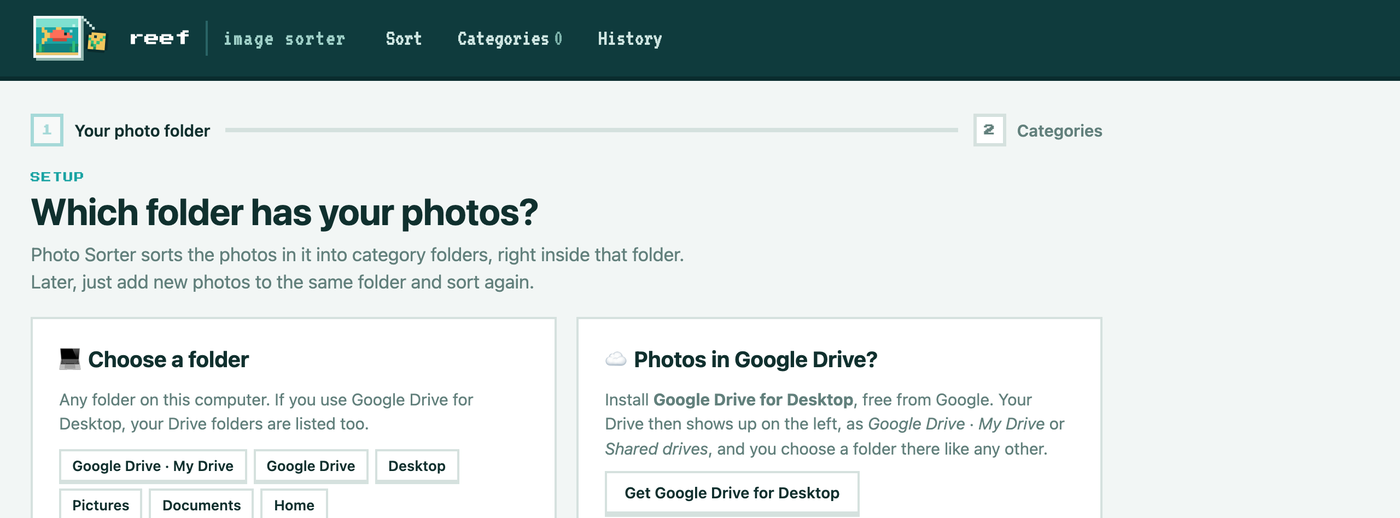
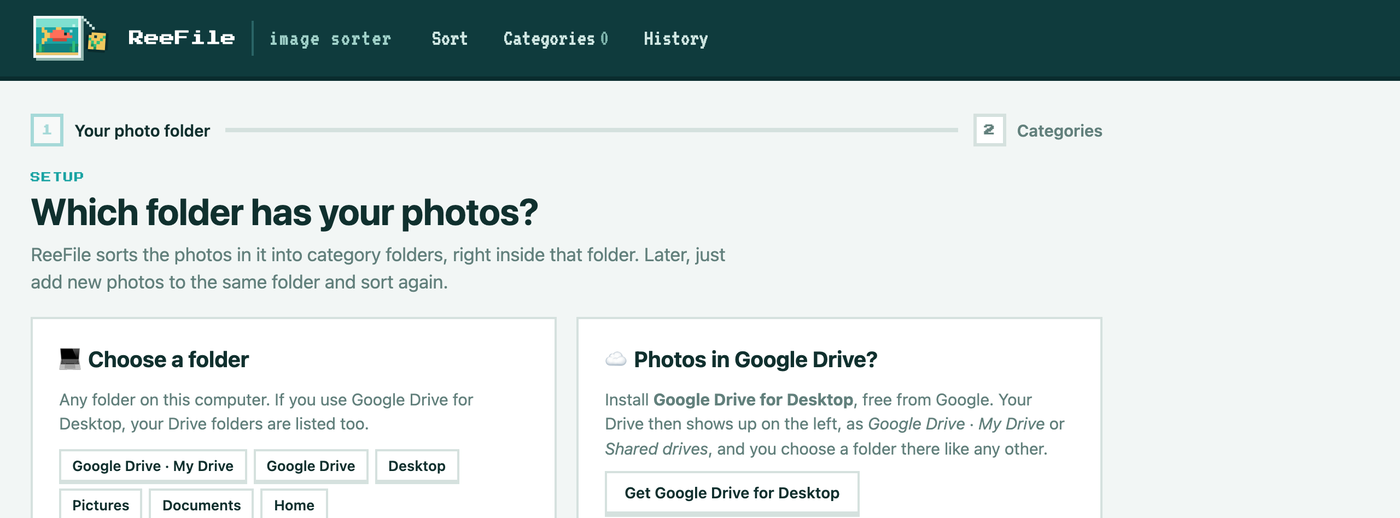
Name the app ReeFile
ReeFile is now the name people see: the app's header and browser tab, the setup and
sign-in pages, the README, the installer and uninstaller screens, and the Desktop icon
(ReeFile.command / ReeFile.lnk; icons from older installs are removed, so nobody ends
up with two). The command, package and folders keep the name photo-sorter, so
existing installs and settings keep working. Screenshots re-taken with the new name.

Changed region(s): [[0.0, 0.4633, 0.5221, 0.556], [0.0921, 0.0618, 0.5221, 0.0927]]

diff --git a/photo_sorter/web/templates/base.html b/photo_sorter/web/templates/base.html
@@ -3,7 +3,7 @@
 <head>
 <meta charset="utf-8">
 <meta name="viewport" content="width=device-width, initial-scale=1">
-<title>reef · image sorter</title>
+<title>ReeFile · image sorter</title>
 <link rel="preconnect" href="https://fonts.googleapis.com">
 <link href="https://fonts.googleapis.com/css2?family=Press+Start+2P&family=VT323&display=swap" rel="stylesheet">
 <link rel="icon" href="/favicon.svg" type="image/svg+xml">
@@ -396,7 +396,7 @@
 <body class="{{ 'is-sorting' if s and s.running }}">
 <header>
   {% if s and s.running %}<i class="fish"></i><i class="fish b"></i>{% endif %}
-  <a class="logo" href="/" title="reef · image sorter">{% include "_logo.svg" %}<span class="word">reef</span><small>image sorter</small></a>
+  <a class="logo" href="/" title="ReeFile · image sorter">{% include "_logo.svg" %}<span class="word">ReeFile</span><small>image sorter</small></a>
   <nav>
     <a href="/" class="{{ 'active' if request.url.path == '/' else '' }}">Sort</a>
     <a href="/categories" class="{{ 'active' if request.url.path.startswith('/categories') else '' }}">Categories<b>{{ cfg.categories|length + (cfg.video_categories|length if cfg.video_categories else 0) }}</b></a>

diff --git a/photo_sorter/web/templates/setup.html b/photo_sorter/web/templates/setup.html
@@ -11,7 +11,7 @@
 {% if step == 'folder' %}
   <div class="eyebrow">Setup</div>
   <h1>Which folder has your photos?</h1>
-  <p class="sub">Photo Sorter sorts the photos in it into category folders, right inside that folder. Later, just add new
+  <p class="sub">ReeFile sorts the photos in it into category folders, right inside that folder. Later, just add new
     photos to the same folder and sort again.{% if current %} Now: <b>{{ current }}</b>{% endif %}</p>
   {% if err %}<div class="banner err">{{ err }}</div>{% endif %}
   <div class="cards">
@@ -43,7 +43,7 @@
 {% elif step == 'inbox' %}
   <div class="eyebrow">Settings · {{ s.sorter.storage.root_label|short }}</div>
   <h1>Where do new photos arrive?</h1>
-  <p class="sub">Photo Sorter sorts the photos it finds there into the category folders.</p>
+  <p class="sub">ReeFile sorts the photos it finds there into the category folders.</p>
   <form method="post" action="/setup/inbox">
     <label class="choice"><input type="radio" name="mode" value="self" {{ 'checked' if mode == 'self' }}>
       <span><b>Right in this folder</b> <span class="muted">(simplest)</span>

diff --git a/photo_sorter/web/templates/login.html b/photo_sorter/web/templates/login.html
@@ -1,7 +1,7 @@
 {% extends "base.html" %}{% block content %}
 <div class="empty">
   <h1>Sign in with Google</h1>
-  <p>photo-sorter sorts photos inside one of your Google Drive folders: it moves them into category folders there.<br>
+  <p>ReeFile sorts photos inside one of your Google Drive folders: it moves them into category folders there.<br>
      Nothing is copied to this server; your sign-in is kept only in your browser, encrypted.</p>
   <p><a href="/auth/start"><button class="primary">Continue with Google</button></a></p>
   <p class="hint">Next you paste the link of the Drive folder to sort. Google may warn that the app is not verified:

diff --git a/photo_sorter/cli.py b/photo_sorter/cli.py
@@ -403,12 +403,12 @@ def cmd_serve(a, cfg) -> int:
             urllib.request.urlopen(url + "/healthz", timeout=2).read()
         except OSError:
             raise RuntimeError(f"port {a.port} is used by another program; start with --port 8090 (or another number)") from None
-        print(f"photo-sorter is already running: {url}")
+        print(f"ReeFile is already running: {url}")
         if a.open:
             webbrowser.open(url)
         return 0
     app = create_app(cfg)
-    print(f"Open {url}   (keep this window open; closing it stops photo-sorter)", flush=True)
+    print(f"Open {url}   (keep this window open; closing it stops ReeFile)", flush=True)
     if a.open:
         threading.Timer(1.5, webbrowser.open, args=(url,)).start()
     uvicorn.run(app, host=a.host, port=a.port, log_level="warning")

diff --git a/README.md b/README.md
@@ -1,12 +1,12 @@
-# Photo Sorter
+# ReeFile
 
 **Sorts research photos into folders automatically, on your own computer.**
 
-![84 reef photos waiting to be sorted in Photo Sorter](docs/images/unsorted-pile.jpg)
+![84 reef photos waiting to be sorted in ReeFile](docs/images/unsorted-pile.jpg)
 
 ## What it is
 
-Photo Sorter is a free app for research teams that take lots of photos, for example on a coral reef project.
+ReeFile is a free app for research teams that take lots of photos, for example on a coral reef project.
 You tell it which categories you use, and it files your photos into the right folders.
 
 ## What it does
@@ -25,11 +25,11 @@ through [Google Drive for Desktop](https://www.google.com/drive/download/).
 ![Choosing the photo folder](docs/images/choose-folder.png)
 
 **2. Press Sort.** In seconds, every photo gets a suggested category. Here, 84 photos from one week of reef work
-were sorted in 7 seconds on a laptop: 61 were clear, and 23 wait for your decision.
+were sorted in about 6 seconds on a laptop: 61 were clear, and 23 wait for your decision.
 
 ![The photos sorted into piles, one per category, plus a Needs review pile](docs/images/sorted-piles.jpg)
 
-**3. Check, then File.** Open a pile to check it, then press **File**. Photo Sorter creates a folder for each
+**3. Check, then File.** Open a pile to check it, then press **File**. ReeFile creates a folder for each
 category inside your photo folder and moves the photos into it:
 
 ```text
@@ -52,7 +52,7 @@ Later, just add new photos to the folder and press **Sort** again.
 
 ### Needs review: one key per photo
 
-When Photo Sorter isn't sure, the photo waits in **Needs review**. Press **▶ Decide** to go through them one by
+When ReeFile isn't sure, the photo waits in **Needs review**. Press **▶ Decide** to go through them one by
 one: the photo shows large, with your categories as numbered tags and its best guess starred (★).
 
 ![Deciding a photo that is a close call between Coral and Sponge](docs/images/needs-review.jpg)
@@ -71,7 +71,7 @@ one: the photo shows large, with your categories as numbered tags and its best g
 Nothing needs to be "trained", and it gets better as you use it:
 
 - **Your words.** Each category can have a short description of what its photos look like, for example
-  *Sponge: sponge fragments on ropes underwater*. Photo Sorter compares every photo with these words.
+  *Sponge: sponge fragments on ropes underwater*. ReeFile compares every photo with these words.
 - **Example photos.** Give a category 5 to 20 example photos (the 🖼 button on the **Categories** page: drop
   photos in, or search the web). New photos are compared with them. This is how it learns things words can't
   describe well, such as one coral species from another (APAL from ACER) or specific people.
@@ -80,7 +80,7 @@ Nothing needs to be "trained", and it gets better as you use it:
 
 ### The model, and why
 
-Photo Sorter uses **SigLIP 2** (`google/siglip2-base-patch16-224`), a free, open image-and-text model made by
+ReeFile uses **SigLIP 2** (`google/siglip2-base-patch16-224`), a free, open image-and-text model made by
 Google. It runs on your own computer, so there's no account, no cost per photo, and your photos never leave
 it. Because it understands pictures and words together, plain category descriptions work from day one, and
 comparing new photos with your examples lets it learn without any training step. It's small enough for a laptop
@@ -105,7 +105,7 @@ inside your user folder, and doesn't need an administrator password.
    ```
 
 3. It shows what it will install and where, then asks before it starts. Press Enter and wait for
-   **✓ Photo Sorter is installed**. The first time takes a few minutes.
+   **✓ ReeFile is installed**. The first time takes a few minutes.
 
 ### Windows
 
@@ -117,17 +117,17 @@ inside your user folder, and doesn't need an administrator password.
    ```
 
 3. It shows what it will install and where, then asks before it starts. Windows may ask once for permission to add
-   a free Microsoft component that Photo Sorter needs.
+   a free Microsoft component that ReeFile needs.
 
-Either way, you now have a **Photo Sorter** icon on your Desktop. To update, paste the same line again.
+Either way, you now have a **ReeFile** icon on your Desktop. To update, paste the same line again.
 You can read exactly what the installers do: [install.sh](install.sh) (Mac) and [install.ps1](install.ps1) (Windows).
 
 ## How to use it
 
 ### The first time
 
-1. Double-click **Photo Sorter** on your Desktop. It opens in your web browser. A small window opens too: keep it
-   open while you work, because closing it stops Photo Sorter.
+1. Double-click **ReeFile** on your Desktop. It opens in your web browser. A small window opens too: keep it
+   open while you work, because closing it stops ReeFile.
 2. **Choose the folder that has your photos.**
 3. **Choose your categories:** use the folders already there, pick a ready-made list (*Coral reef restoration*, or
    the shorter *Reef basics*), or start empty. You can change the list any time on the **Categories** page.
@@ -135,7 +135,7 @@ You can read exactly what the installers do: [install.sh](install.sh) (Mac) and 
 ### Every day
 
 1. Add new photos to your photo folder.
-2. Press **Sort**. Nothing moves yet; Photo Sorter only suggests.
+2. Press **Sort**. Nothing moves yet; ReeFile only suggests.
 3. Press **▶ Decide** for the photos in **Needs review**, and **File** for the piles that look right.
 
 Changed your mind? Press **Undo**, or open **History** and use **Move to…** on any photo.
@@ -144,10 +144,10 @@ Changed your mind? Press **Undo**, or open **History** and use **Move to…** on
 
 | What you see | What to do |
 | --- | --- |
-| The installer shows **✗** | It shows the last lines of its log. Send a screenshot to whoever helps you with Photo Sorter. |
+| The installer shows **✗** | It shows the last lines of its log. Send a screenshot to whoever helps you with ReeFile. |
 | Windows says a script "is not digitally signed" | Don't run a downloaded file: paste the line from **Install** into PowerShell instead. |
-| "This Mac has an Intel processor" | Photo Sorter needs a Mac with an Apple chip (M1 or newer) for now. |
-| The page doesn't open, or says it can't connect | Double-click **Photo Sorter** again. |
+| "This Mac has an Intel processor" | ReeFile needs a Mac with an Apple chip (M1 or newer) for now. |
+| The page doesn't open, or says it can't connect | Double-click **ReeFile** again. |
 | Almost everything lands in **Needs review** | Describe your categories and add example photos (see *It learns from you*). |
 
 ## Remove it

diff --git a/docs/ADVANCED.md b/docs/ADVANCED.md
@@ -28,7 +28,7 @@ this repository and runs it. The script:
 3. runs `uv tool install "photo-sorter[researcher] @ <this repo's main.zip>"` with `UV_PYTHON_PREFERENCE=only-managed`,
    so the app gets its own Python 3.12 and never uses conda, Homebrew or system Pythons, and nothing needs git;
 4. runs `photo-sorter setup`, which downloads the image model into the Hugging Face cache;
-5. writes a Desktop launcher (`Photo Sorter.command` on a Mac, a `Photo Sorter.lnk` shortcut on Windows) that
+5. writes a Desktop launcher (`ReeFile.command` on a Mac, a `ReeFile.lnk` shortcut on Windows) that
    runs `photo-sorter serve --open`.
 
 Everything goes into the user's folder; the log is `~/Library/Logs/photo-sorter-install.log` (Mac) or
